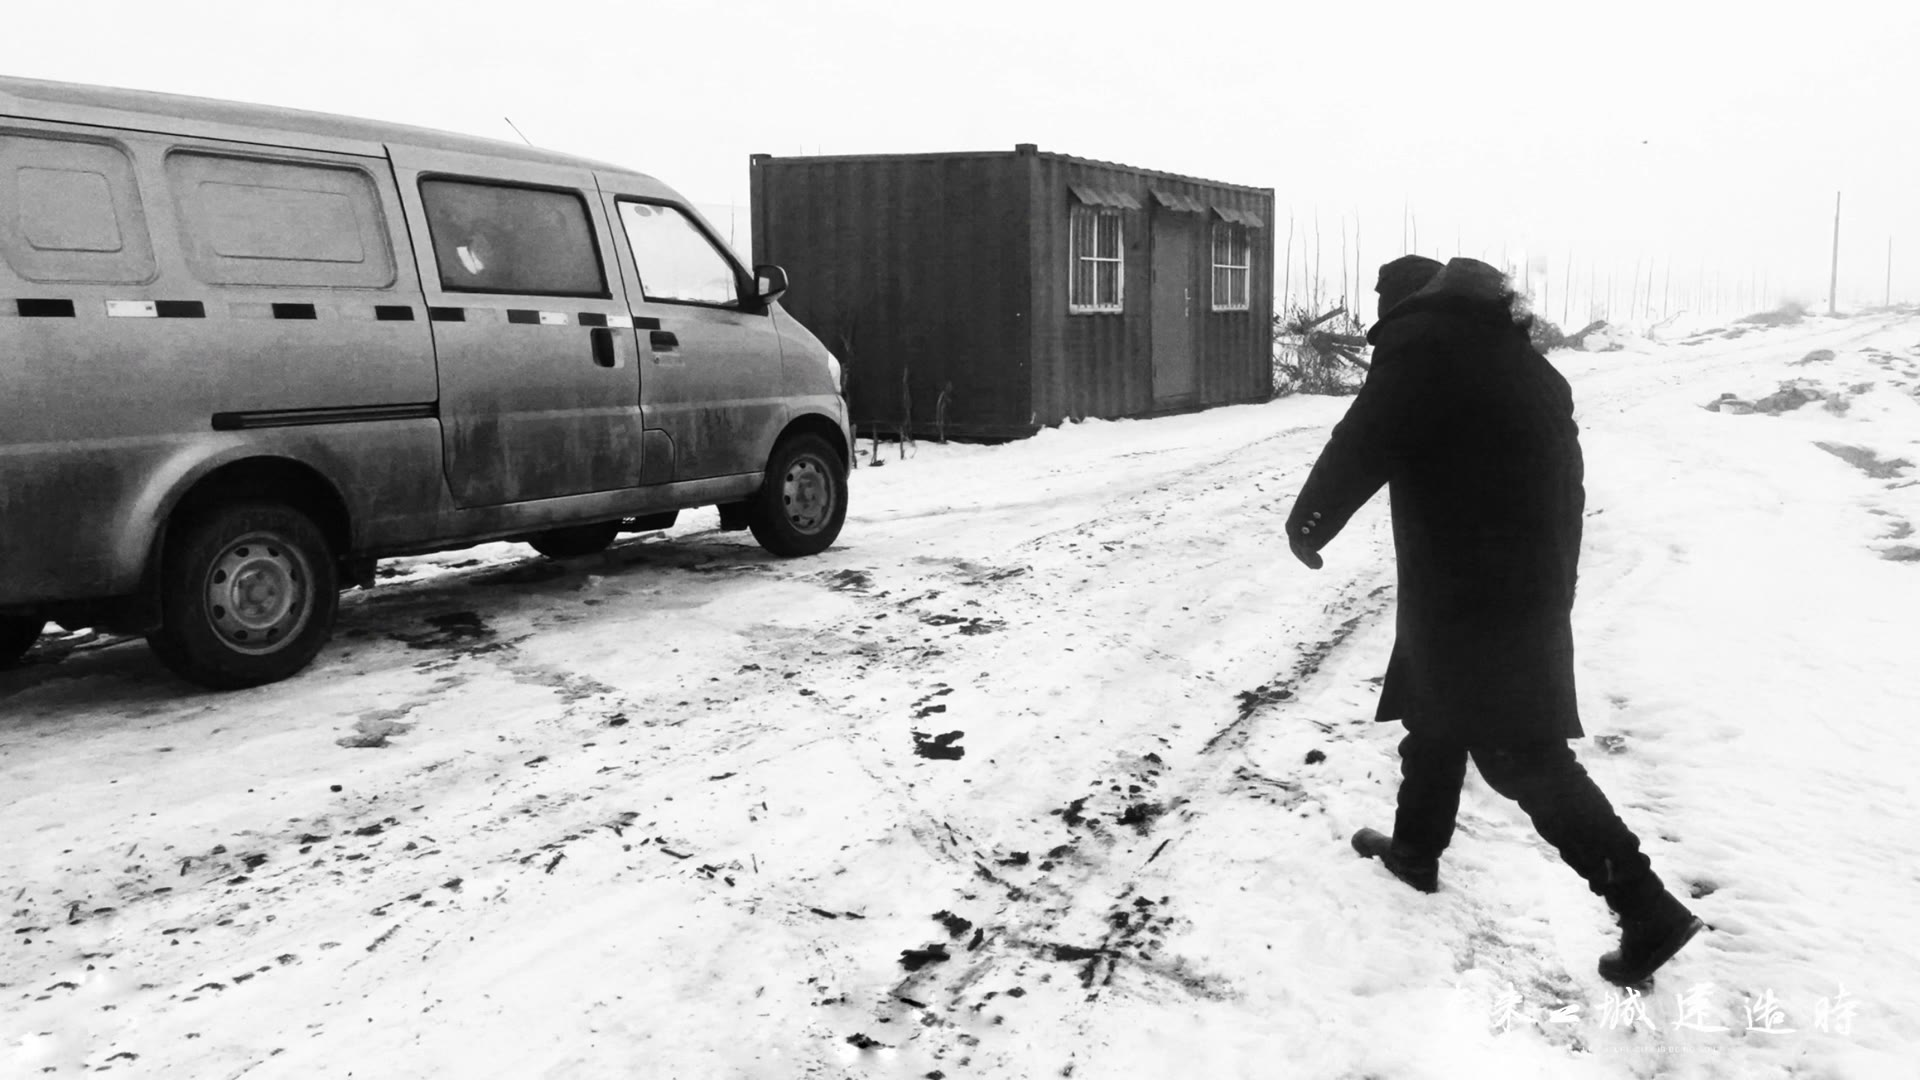
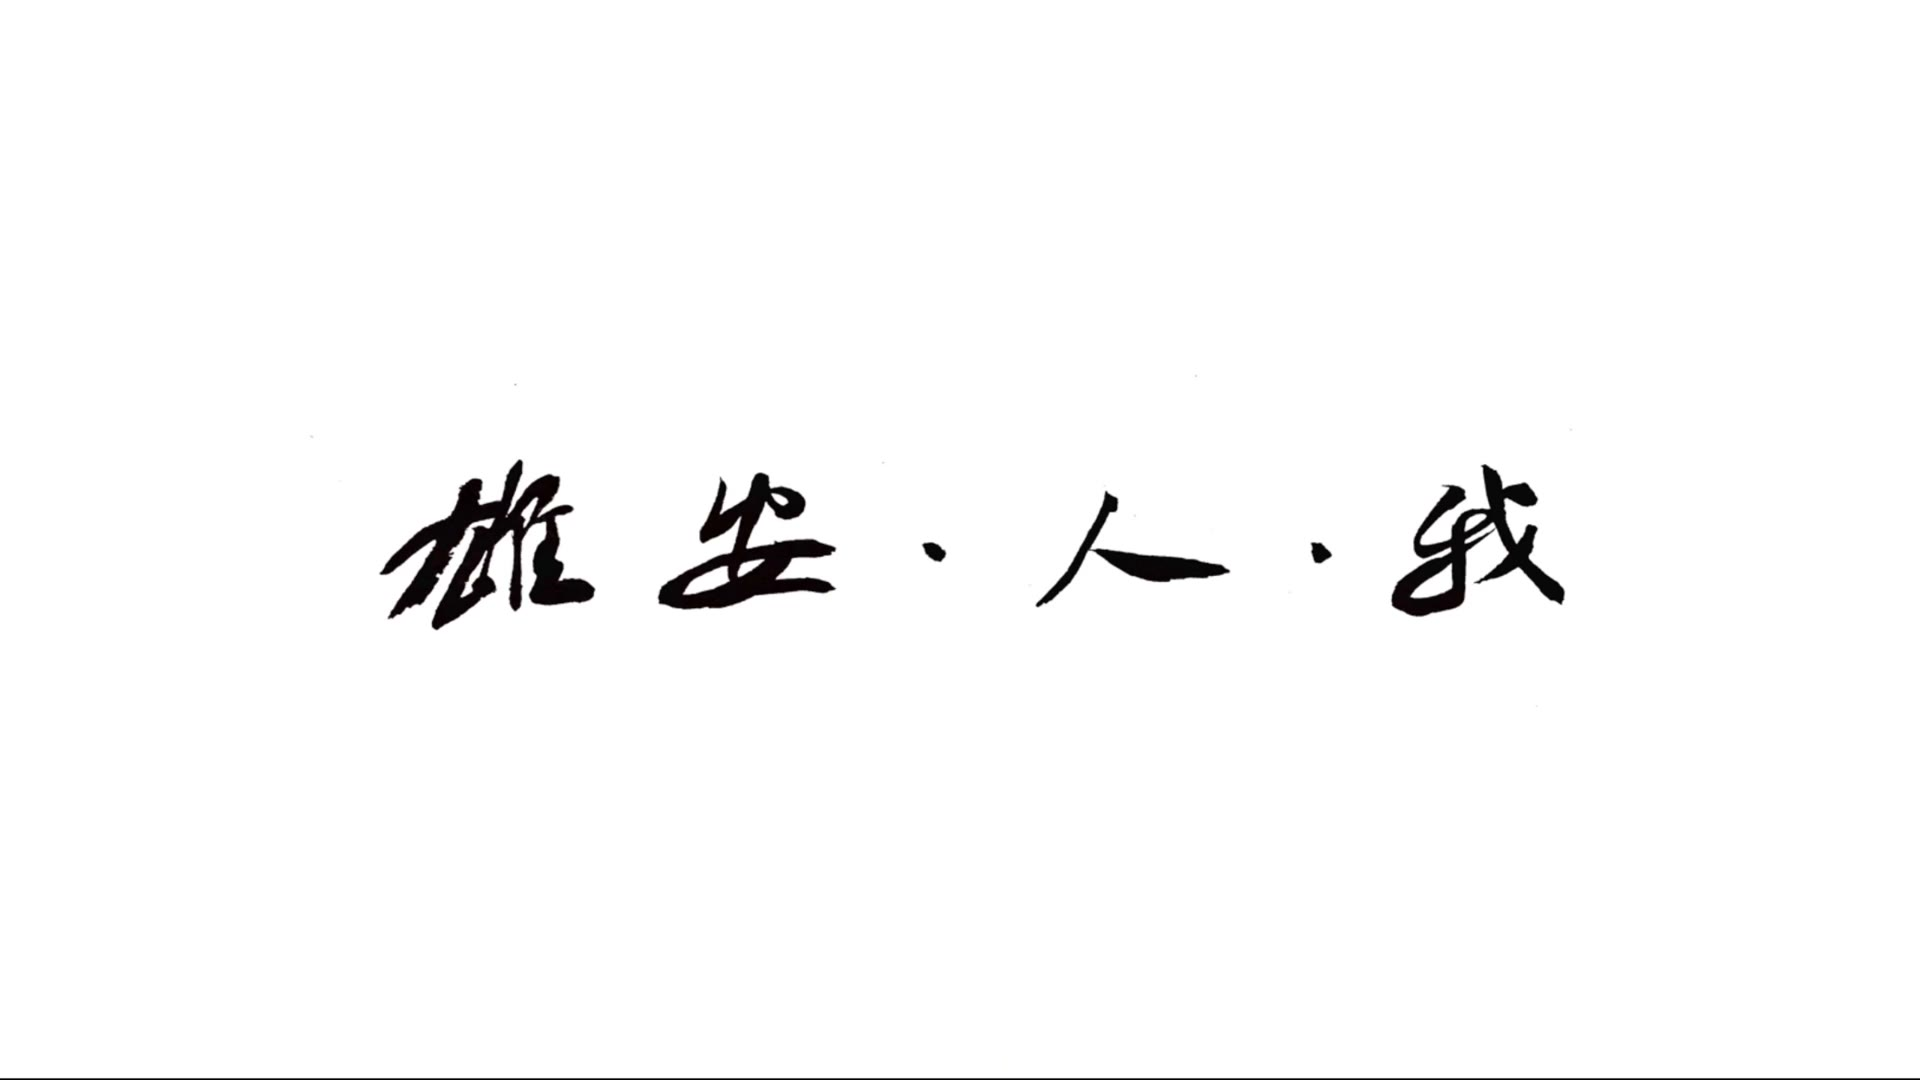
作品名改回《未来城市建造时》；封面用视频居中字幕帧；灯箱支持左右切换照片；关于页删学术论文+照片不裁剪

diff --git a/js/main.js b/js/main.js
@@ -32,28 +32,63 @@
     });
   }
 
-  /* ---------- 灯箱：点击图库图片放大 ---------- */
+  /* ---------- 灯箱：点击图库图片放大，左右切换 ---------- */
   var lightbox = document.querySelector('.lightbox');
   var lightboxImg = lightbox ? lightbox.querySelector('img') : null;
   if (lightbox && lightboxImg) {
-    document.addEventListener('click', function (e) {
-      var img = e.target.closest('[data-lightbox]');
-      if (img) {
-        lightboxImg.src = img.getAttribute('src');
-        lightboxImg.alt = img.getAttribute('alt') || '';
-        lightbox.classList.add('is-open');
-        document.body.style.overflow = 'hidden';
-      }
-    });
+    var items = Array.prototype.slice.call(document.querySelectorAll('[data-lightbox]'));
+    var current = -1;
+
+    // 注入左右切换按钮与计数
+    var prevBtn = document.createElement('button');
+    prevBtn.className = 'lightbox__nav lightbox__nav--prev';
+    prevBtn.setAttribute('aria-label', '上一张');
+    prevBtn.innerHTML = '&#8249;';
+    var nextBtn = document.createElement('button');
+    nextBtn.className = 'lightbox__nav lightbox__nav--next';
+    nextBtn.setAttribute('aria-label', '下一张');
+    nextBtn.innerHTML = '&#8250;';
+    var counter = document.createElement('div');
+    counter.className = 'lightbox__count';
+    lightbox.appendChild(prevBtn);
+    lightbox.appendChild(nextBtn);
+    lightbox.appendChild(counter);
+
+    function show(i) {
+      if (!items.length) return;
+      current = (i + items.length) % items.length;
+      lightboxImg.src = items[current].getAttribute('src');
+      lightboxImg.alt = items[current].getAttribute('alt') || '';
+      counter.textContent = (current + 1) + ' / ' + items.length;
+    }
+    function open(i) {
+      show(i);
+      lightbox.classList.add('is-open');
+      document.body.style.overflow = 'hidden';
+    }
     function closeLightbox() {
       lightbox.classList.remove('is-open');
       document.body.style.overflow = '';
     }
+    function step(d) {
+      if (!lightbox.classList.contains('is-open')) return;
+      show(current + d);
+    }
+
+    document.addEventListener('click', function (e) {
+      var img = e.target.closest('[data-lightbox]');
+      if (img) open(items.indexOf(img));
+    });
+    prevBtn.addEventListener('click', function (e) { e.stopPropagation(); step(-1); });
+    nextBtn.addEventListener('click', function (e) { e.stopPropagation(); step(1); });
     lightbox.addEventListener('click', function (e) {
       if (e.target !== lightboxImg) closeLightbox();
     });
     document.addEventListener('keydown', function (e) {
+      if (!lightbox.classList.contains('is-open')) return;
       if (e.key === 'Escape') closeLightbox();
+      if (e.key === 'ArrowLeft') step(-1);
+      if (e.key === 'ArrowRight') step(1);
     });
   }
 

diff --git a/about.html b/about.html
@@ -72,31 +72,10 @@
     </div>
   </section>
 
-  <section style="background: var(--bg-soft);">
-    <div class="container">
-      <div class="section-head reveal">
-        <span class="no">A</span>
-        <span class="label">Academic · 学术论文</span>
-        <span class="rule"></span>
-      </div>
-      <div class="card reveal">
-        <span class="card-tag">MFA · CNKI</span>
-        <h3>《摄影如何记录和表现城市发展进程——以雄安新区为例》</h3>
-        <p style="margin-top:12px;">
-          本研究探讨摄影作为「城市观看的媒介」，如何通过城市档案、新闻摄影、纪实摄影等多元形式，
-          客观记录并艺术化地表现雄安新区的城市化进程。
-        </p>
-        <p style="margin-top:18px; font-size:.85rem; color:var(--ink-faint);">
-          发表平台：中国知网 CNKI · 2025 年第 09 期　｜　指导教师：李树峰 教授　｜　学科专业：艺术设计 (MFA)
-        </p>
-      </div>
-    </div>
-  </section>
-
   <section>
     <div class="container">
       <div class="section-head reveal">
-        <span class="no">B</span>
+        <span class="no">A</span>
         <span class="label">Teaching · 授课经历</span>
         <span class="rule"></span>
       </div>
@@ -124,7 +103,7 @@
   <section style="padding-top:0;">
     <div class="container">
       <div class="section-head reveal">
-        <span class="no">C</span>
+        <span class="no">B</span>
         <span class="label">Credentials · 证书与资质</span>
         <span class="rule"></span>
       </div>

diff --git a/project-future-city.html b/project-future-city.html
@@ -3,8 +3,8 @@
 <head>
   <meta charset="UTF-8">
   <meta name="viewport" content="width=device-width, initial-scale=1.0">
-  <title>未来城市进行时 — 一粟</title>
-  <meta name="description" content="《未来城市进行时》：一粟（张悦）以动态影像记录雄安这座未来之城拔节生长的过程。">
+  <title>未来城市建造时 — 一粟</title>
+  <meta name="description" content="《未来城市建造时》：一粟（张悦）以动态影像记录雄安这座未来之城拔节生长的过程。">
   <link rel="stylesheet" href="css/style.css">
 </head>
 <body>
@@ -30,7 +30,7 @@
   <section class="project-hero">
     <div class="container">
       <span class="label reveal">Project · 动态影像</span>
-      <h1 class="page-title reveal" style="margin-top:18px;">未来城市进行时</h1>
+      <h1 class="page-title reveal" style="margin-top:18px;">未来城市建造时</h1>
       <p class="lead reveal">
         当摄影的两组静态影像之后，这支动态影像尝试用流动的画面继续观看雄安——
         一座「未来之城」拔节生长的进行时态。
@@ -74,7 +74,7 @@
           您的浏览器不支持视频播放，请更换浏览器后再试。
         </video>
         <figcaption style="font-size:.78rem; color:var(--ink-faint); margin-top:14px; letter-spacing:.08em;">
-          《未来城市进行时》· 单频影像 · 5分28秒
+          《未来城市建造时》· 单频影像 · 5分28秒
         </figcaption>
       </figure>
     </div>

diff --git a/css/style.css b/css/style.css
@@ -363,8 +363,7 @@ body:not(.is-home) .site-header {
 .about-portrait { position: sticky; top: 120px; }
 .about-portrait img {
   width: 100%;
-  aspect-ratio: 1 / 1;
-  object-fit: cover;
+  height: auto;
   background: var(--bg-deep);
 }
 .about-portrait figcaption {
@@ -544,6 +543,35 @@ body:not(.is-home) .site-header {
   transition: opacity .3s;
 }
 .lightbox__close:hover { opacity: 1; }
+
+/* 灯箱左右切换按钮 + 计数 */
+.lightbox__nav {
+  position: absolute;
+  top: 50%;
+  transform: translateY(-50%);
+  z-index: 210;
+  color: #fff;
+  font-size: 3rem;
+  line-height: 1;
+  width: 64px;
+  height: 64px;
+  padding: 0;
+  opacity: .55;
+  transition: opacity .3s;
+}
+.lightbox__nav:hover { opacity: 1; }
+.lightbox__nav--prev { left: 18px; }
+.lightbox__nav--next { right: 18px; }
+.lightbox__count {
+  position: absolute;
+  bottom: 28px;
+  left: 50%;
+  transform: translateX(-50%);
+  z-index: 210;
+  color: rgba(255,255,255,.75);
+  font-size: .82rem;
+  letter-spacing: .2em;
+}
 
 /* ---------- 文字链接按钮 ---------- */
 .link-more {

diff --git a/index.html b/index.html
@@ -72,9 +72,9 @@
           </div>
         </a>
         <a class="project-card reveal" href="project-future-city.html">
-          <div class="project-card__media"><img src="assets/images/future-city-cover.jpg" alt="未来城市进行时"></div>
+          <div class="project-card__media"><img src="assets/images/future-city-cover.jpg" alt="未来城市建造时"></div>
           <div class="project-card__meta">
-            <h3 class="project-card__title">未来城市进行时</h3>
+            <h3 class="project-card__title">未来城市建造时</h3>
             <span class="project-card__sub">动态影像 · 雄安</span>
           </div>
         </a>

diff --git a/works.html b/works.html
@@ -56,9 +56,9 @@
         </a>
 
         <a class="project-card reveal" href="project-future-city.html">
-          <div class="project-card__media"><img src="assets/images/future-city-cover.jpg" alt="未来城市进行时"></div>
+          <div class="project-card__media"><img src="assets/images/future-city-cover.jpg" alt="未来城市建造时"></div>
           <div class="project-card__meta">
-            <h3 class="project-card__title">未来城市进行时</h3>
+            <h3 class="project-card__title">未来城市建造时</h3>
             <span class="project-card__sub">动态影像 · 雄安</span>
           </div>
         </a>

diff --git a/project-xiongan.html b/project-xiongan.html
@@ -244,7 +244,7 @@
 
   <section style="background: var(--bg-soft);">
     <div class="container container--narrow" style="text-align:center;">
-      <a class="link-more reveal" href="project-future-city.html">下一个项目：未来城市进行时 →</a>
+      <a class="link-more reveal" href="project-future-city.html">下一个项目：未来城市建造时 →</a>
     </div>
   </section>
 
